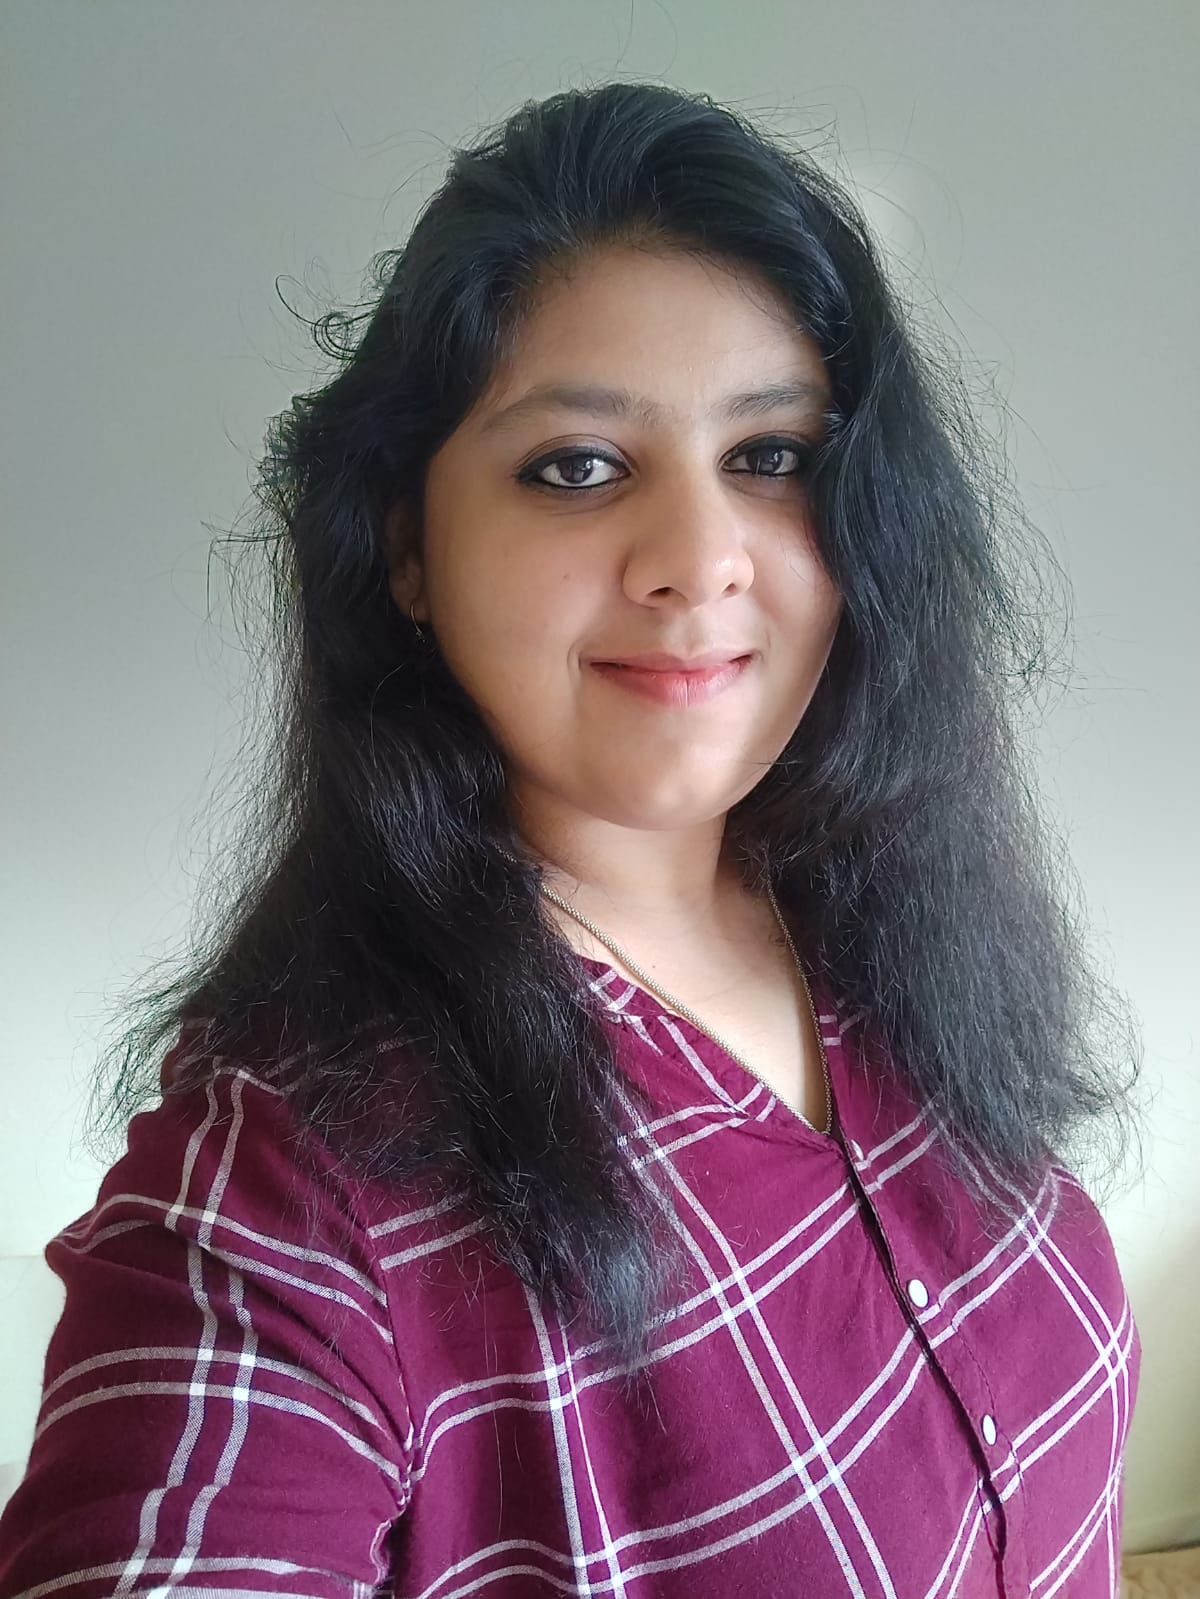
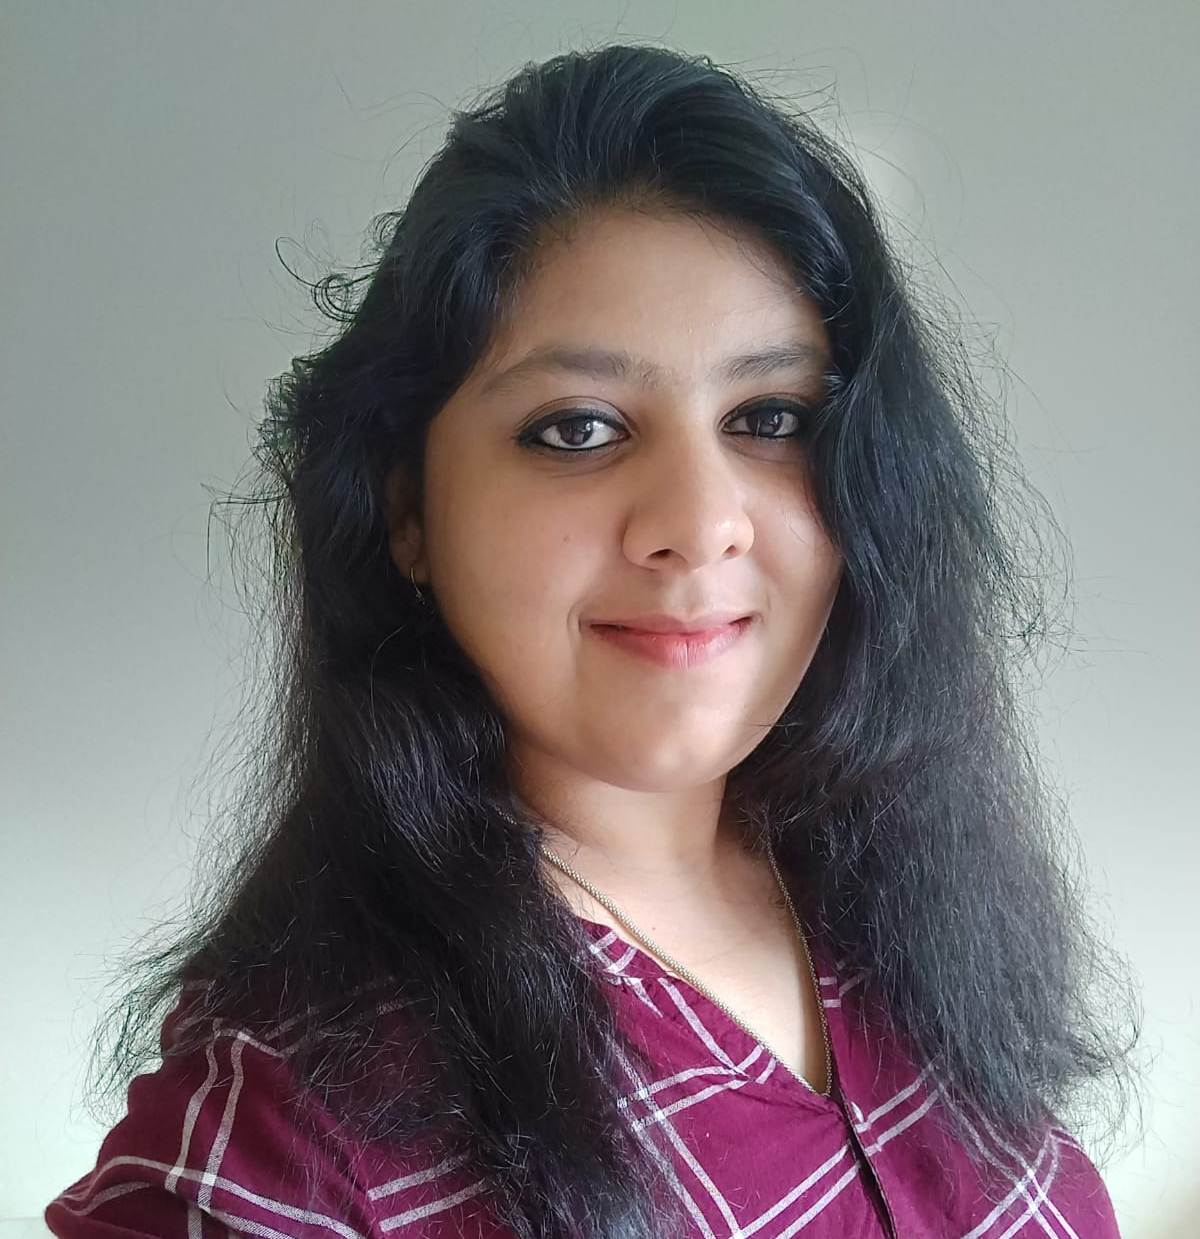
Updated profile pic and skills

diff --git a/index.html b/index.html
@@ -254,7 +254,7 @@
         
         <br/>
         
-        <div class="subheading mb-3">Workflow</div>
+        <!--  <div class="subheading mb-3">Workflow</div>
         <ul class="fa-ul mb-0">
           <li>
             <i class="fa-li fa fa-check"></i>
@@ -269,7 +269,7 @@
             <i class="fa-li fa fa-check"></i>
             Agile Development &amp; Scrum</li>
         </ul>
-      </div>
+      </div> -->
     </section>
 
     <hr class="m-0">
